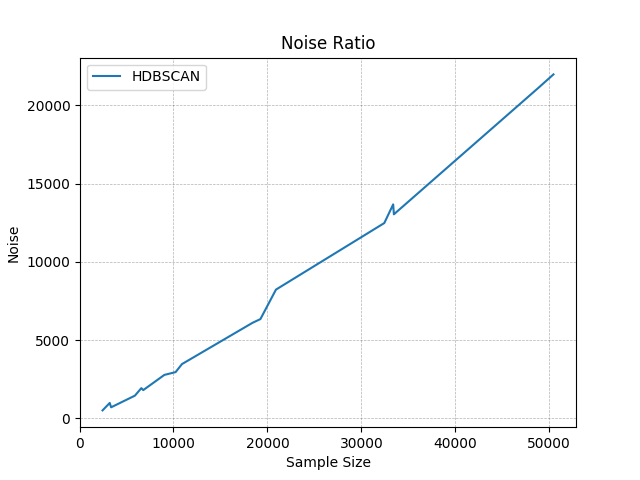
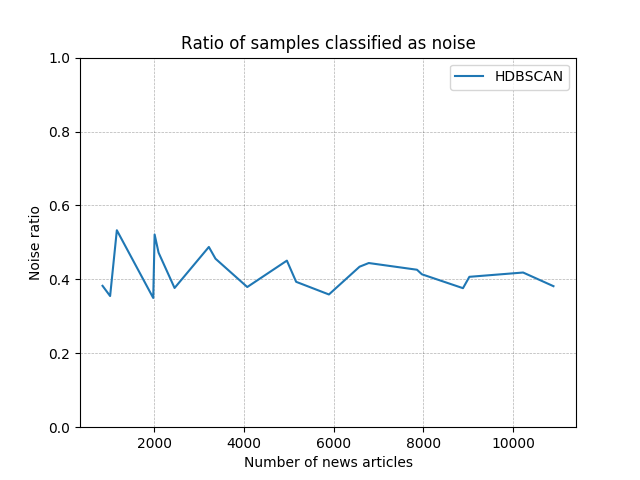
Continue writing evaluation

diff --git a/doc/results.tex b/doc/results.tex
@@ -5,18 +5,20 @@
 The goal of this evaluation is to find an accurat clustering method for working with news articles. The most suitable algorithm will then be used for the online approach of detecting changes in a news stream based on stories.
 
 
-To begin the evaluation, we first compare six different clustering methods with each other. K-means is included as a baseline, to put the scores in relation to one of the most commonly used clustering algorithms. As we can see in figure \ref{fig:different_clusterings}, HDBSCAN provides together with K-means the highest accuracy compared to the others. One of the reason of the general low scores is the high-dimensionality of the test data.  
+To begin the evaluation, we first compare six different clustering methods with each other. K-means is included as a baseline, to put the scores in relation to one of the most commonly used clustering algorithms. As we can see in figure \ref{fig:different_clusterings}, HDBSCAN provides the highest accuracy, while being still being one of the fastest algorithms. Based on this data, we can assume HDBSCAN to be a good candidate to work with further. Therefore we focus on this algorithm for the rest of the evaluation to get more insight into its performance and other important properties.
+
+\begin{figure}[h]
+    \centering
+    \includegraphics[width=0.5\textwidth]{different_clusterings}
+    \caption{Comparison of different clustering methods with a sample size of approximately 1000 news articles}
+    \label{fig:different_clusterings}
+\end{figure}
 
 % TODO Explain why HDBSCAN is better than the rest
 
-% TODO show plot with accuracy,  processing times and difference in clusters
+Increasing the sample size results for both HDBSCAN and K-means in a small loss regarding the accuracy as can be seen in figure \ref{fig:accuracy_kmeans_hdbscan}. However the accuracy seems to stabilize around the 0.7 mark. The drop in the beginning is due to the fact, that for each run, we load the news articles based 
 
-Based on the results so far HDBSCAN appears to be the best candidate for our use case. The following parts of the evaluation will focus on HDBSCAN to get more insight into its performance and other properties.
-
-
-The plots previously shown in the evaluation process were based on a sample size of 30 stories which amounts to roughly 1000 news articles. The low number of samples was due to the long processing times of some of the algorithms. Increasing the sample size results for both HDBSCAN and K-means in a small loss regarding the accuracy as can be seen in Figure \ref{fig:accuracy_kmeans_hdbscan}.
-
-% Explain the loss in accuracy
+% TODO fix error in data collection
 
 \begin{figure}[h]
     \centering
@@ -25,6 +27,8 @@ The plots previously shown in the evaluation process were based on a sample size
     \label{fig:accuracy_kmeans_hdbscan}
 \end{figure}
 
+While HDBSCAN and K-means provide a similar accuracy, the biggest difference can be noted in the processing time in relation to an increasing number of samples. K-means has a time complexity of $O(n^2)$ in contrast to HDBSCAN with a time complexity of $O(nlog(n))$, which is demonstrated by figure \ref{fig:processing_time_kmeans_hdbscan}.
+
 \begin{figure}[h]
     \centering
     \includegraphics[width=0.5\textwidth]{processing_time_kmeans_hdbscan}
@@ -32,7 +36,16 @@ The plots previously shown in the evaluation process were based on a sample size
     \label{fig:processing_time_kmeans_hdbscan}
 \end{figure}
 
-Being able to handle noise is one of the advantages of HDBSCAN has over the other previously tested clustering algorithms. It is reasonable to expect to have a lot of noise in the incoming stream of news articles, once the algorithm is applied in an online setting. However this evaluation is done with a labeled static dataset, containing a minimum amount of noise. The noise ratio shown in Figure \ref{fig:noise_ratio_samples} is much higher than we would expect from the test data. 
+Figure \ref{fig:cluster_difference_samples} shows, that the difference between predicted over the true number of clusters is fairly low and appears to be roughly linear with the overall number of clusters.  
+
+\begin{figure}[h]
+    \centering
+    \includegraphics[width=0.5\textwidth]{cluster_difference_samples}
+    \caption{Ratio of difference over predicted with true number of clusters}
+    \label{fig:cluster_difference_samples}
+\end{figure}
+
+Being able to handle noise is one of the advantages of HDBSCAN has over the other previously tested clustering algorithms. It is reasonable to expect to have a lot of noise in the incoming stream of news articles, once the algorithm is applied in an online setting. However this evaluation is done with a labeled static dataset, containing a minimum amount of noise. The noise ratio shown in Figure \ref{fig:noise_ratio_samples} is much higher, than we would expect from the test data. 
 
 \begin{figure}[h]
     \centering
@@ -42,11 +55,3 @@ Being able to handle noise is one of the advantages of HDBSCAN has over the othe
 \end{figure}
 
 % Explain the high noise rate
-
-
-\begin{figure}[h]
-    \centering
-    \includegraphics[width=0.5\textwidth]{cluster_difference_samples}
-    \caption{Example of a parametric plot ($\sin (x), \cos(x), x$)}
-    \label{fig:cluster_difference_samples}
-\end{figure}

diff --git a/app/data_processing/plots.py b/app/data_processing/plots.py
@@ -1,10 +1,47 @@
 import matplotlib.pyplot as plt
+import numpy as np
 import pandas
 import db
 from dotenv import load_dotenv
 
 # Load environment variables.
 load_dotenv()
+
+
+# Processing time and accuracy for different clustering methods
+def plot_different_clusterings():
+    connection = db.get_connection()
+
+    sql = (
+        "select max(m.corrected_avg_unique_accuracy) as accuracy, avg(m.processing_time) as processing_time, m.method from method_evaluation as m"
+        " where m.sample_size < 2000 and m.corrected_avg_unique_accuracy is not null"
+        " group by m.method"
+    )
+
+    data = pandas.read_sql(sql=sql, con=connection)
+    connection.close()
+    fig = plt.figure()
+
+    
+    X = data["processing_time"].values
+    Y = data["accuracy"].values
+
+    colors = np.random.rand(len(X))
+    plt.scatter(X, Y, c=colors, alpha=0.5)
+
+
+    methods = data['method'].values
+    for index, method in enumerate(methods):
+        plt.annotate(method, (X[index], Y[index]), xytext = (X[index], Y[index] + 0.02))
+
+    plt.ylim(top=1, bottom=0)
+    plt.xlabel('Processing time in seconds')
+    plt.ylabel('Accuracy')
+    plt.title("Comparison of different clutering methods")
+    plt.grid(True, 'major',  ls='--', lw=.5, c='k', alpha=.3)
+    plt.savefig('../../doc/images/different_clusterings.png')
+    plt.close(fig)
+
 
 # Processing time by number of samples with hdbscan and kmeans
 def plot_processing_time_samples():
@@ -28,8 +65,8 @@ def plot_processing_time_samples():
     fig = plt.figure()
     plt.plot(X, Y_hdbscan, label='HDBSCAN')
     plt.plot(X, Y_kmeans, label='K-means')
-    plt.xlabel('Sample Size')
-    plt.ylabel('Average Processing Time')
+    plt.xlabel('Number of news articles')
+    plt.ylabel('Processing time in seconds')
     plt.title("Average Processing Time by number of samples")
     plt.legend()
     plt.grid(True, 'major',  ls='--', lw=.5, c='k', alpha=.3)
@@ -58,7 +95,7 @@ def plot_accuracy_samples():
     fig = plt.figure()
     plt.plot(X, Y_hdbscan, label='HDBSCAN')
     plt.plot(X, Y_kmeans, label='K-means')
-    plt.xlabel('Sample Size')
+    plt.xlabel('Number of news articles')
     plt.ylabel('Average Accuracy')
     plt.ylim(top=1, bottom=0)
     plt.title("Accuracy by number of samples")
@@ -99,7 +136,7 @@ def plot_noise_ratio_samples():
 
     # TODO with different min_cluster_sizes
     sql = (
-        "select avg(m.n_noise) as n_noise, m.sample_size from method_evaluation as m"
+        "select avg(m.n_noise / m.sample_size) as n_noise, m.sample_size from method_evaluation as m"
         " where m.method in ('hdbscan') and m.corrected_avg_unique_accuracy is not null"
         " group by m.sample_size"
     )
@@ -112,9 +149,10 @@ def plot_noise_ratio_samples():
 
     fig = plt.figure()
     plt.plot(X, Y_hdbscan, label='HDBSCAN')
-    plt.xlabel('Sample Size')
-    plt.ylabel('Noise')
-    plt.title("Noise Ratio")
+    plt.xlabel('Number of news articles')
+    plt.ylabel('Noise ratio')
+    plt.ylim(top=1, bottom=0)
+    plt.title("Ratio of samples classified as noise")
     plt.legend()
     plt.grid(True, 'major',  ls='--', lw=.5, c='k', alpha=.3)
     plt.savefig('../../doc/images/noise_ratio_samples.png')
@@ -125,21 +163,22 @@ def plot_cluster_difference_samples():
     connection = db.get_connection()
 
     sql = (
-        "select min(abs(m.real_clusters - m.estimated_clusters)) as diff, m.sample_size from method_evaluation as m"
+        "select min(abs(m.real_clusters - m.estimated_clusters) / m.real_clusters) as diff, m.real_clusters from method_evaluation as m"
         " where m.method in ('hdbscan') and m.corrected_avg_unique_accuracy is not null"
-        " group by m.sample_size"
+        " group by m.real_clusters"
     )
 
     data = pandas.read_sql(sql=sql, con=connection)
     connection.close()
 
-    X = data["sample_size"].unique()
+    X = data["real_clusters"].unique()
     Y_hdbscan = data["diff"].values
 
     fig = plt.figure()
     plt.plot(X, Y_hdbscan, label='HDBSCAN')
-    plt.xlabel('Sample Size')
-    plt.ylabel('|n_true - n_predicted|')
+    plt.xlabel('Number of clusters')
+    plt.ylabel('|n_true - n_predicted| / n_true')
+    plt.ylim(top=0.1, bottom=0)
     plt.title("Difference in predicted number of clusters")
     plt.legend()
     plt.grid(True, 'major',  ls='--', lw=.5, c='k', alpha=.3)
@@ -154,4 +193,5 @@ plot_accuracy_samples()
 plot_processing_time_samples()
 plot_cluster_difference_samples()
 plot_noise_ratio_samples()
+plot_different_clusterings()
 # plot_hdbscan_parameters()
